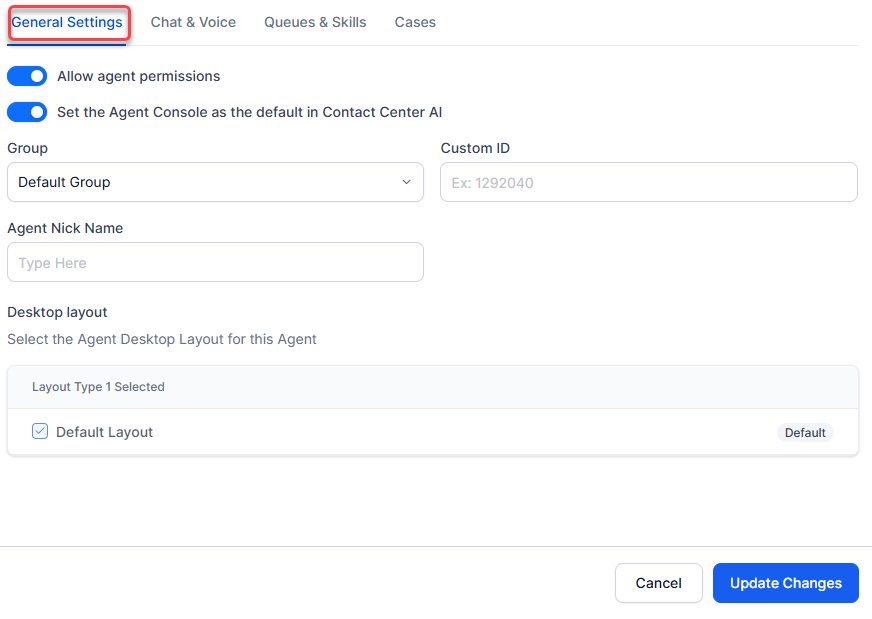
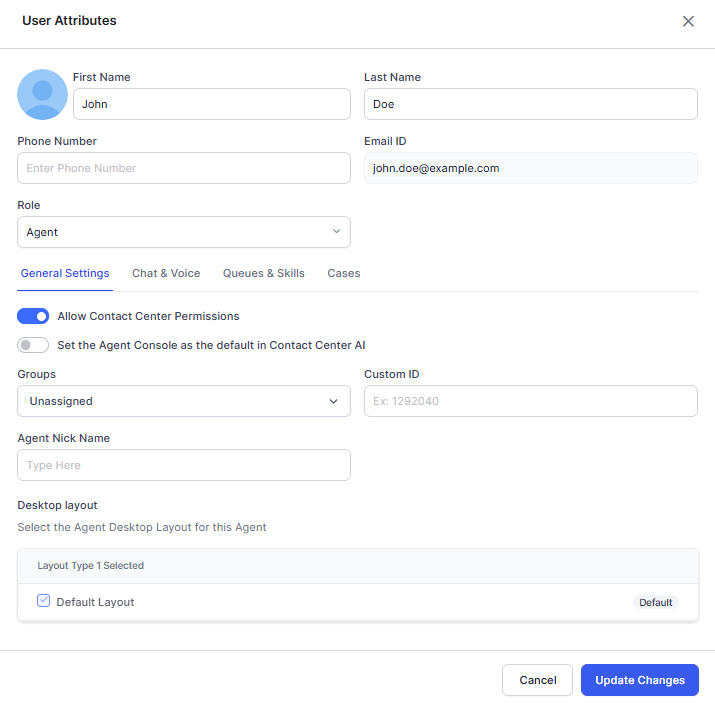
RN and doc updates

diff --git a/docs/xo/release-notes/11.x/platform-services.md b/docs/xo/release-notes/11.x/platform-services.md
@@ -2,6 +2,51 @@
 
 This document provides information on the feature updates and enhancements introduced in the **Platform Services** of AI for Service (XO) v11.x releases.
 
+## v11.22.0 February 28, 2026
+
+<u>Minor Release</u>  
+
+This update includes enhancements and bug fixes. The key enhancements included in this release are summarized below.
+
+
+<font size="4">LLM & Generative AI</font>
+
+**Change Log Enhancement**
+
+Change Logs will track the entire prompt lifecycle, including creation, updates, and deletions, providing a clear, auditable history of all prompt changes. 
+
+<font size="4">API</font>
+
+**Enhanced User Engagement Trend API (v2)**
+
+The User Engagement Trend API now delivers all user engagement metrics through a single endpoint. This includes counts for unique, new, and returning users, along with daily or hourly averages for each category. 
+
+<font size="4">App Settings</font>
+
+
+**Auto-Token Regeneration for OAuth2 Password Grant Type**
+
+The Platform now automatically regenerates Auth and Refresh tokens for the OAuth 2.0 Password Grant Type using stored credentials, ensuring uninterrupted service when tokens expire. 
+
+**End-to-End Payload Encryption Extended to Additional APIs**
+
+Payload encryption is now supported for the LLM and Generative AI Usage Logs API and the Conversation Details and Summary API. When the ‘Enforce Request and Response Payload Encryption’ setting is enabled in the JWT application, and the relevant scopes — Gen AI and LLM Usage Logs and Chat History — are selected, request and response payloads are automatically encrypted and decrypted using the symmetric key associated with those scopes. 
+
+
+<font size="4">Channels</font>
+
+**Typing Indicator Support for MS Teams**
+
+The platform now shows typing indicators in MS Teams, providing users with real-time visual feedback as an AI or human agent composes a response. This keeps users informed during the interaction and makes conversations feel more natural. [Learn more :octicons-arrow-right-24:](../../channels/add-microsoft-teams-channel.md#ms-teams-chat-features)
+
+**Proactive Welcome Message for MS Teams Validation**
+
+The MS Teams Channel Adapter now automatically sends a welcome message when the app is installed in the personal scope. This ensures compliance with  Microsoft Teams Marketplace validation and certification requirements. As a result, the app distribution process is smoother. [Learn more :octicons-arrow-right-24:](../../channels/add-microsoft-teams-channel.md#ms-teams-chat-features)
+
+
+
+<hr>
+
 ## v11.21.1 January 31, 2026
 
 <u> Patch Release </u>

diff --git a/docs/xo/how-tos/using-nlmeta.md b/docs/xo/how-tos/using-nlmeta.md
@@ -1,12 +1,16 @@
 
 # Using nlMeta
 
-Sometimes, one wants to control the flow of the assistant by taking an alternate path to improve the user’s experience.
+Sometimes, one wants to control the flow of the AI Agent by taking an alternate path to improve the user’s experience.
+
+DialogGPT-based apps support handling interruptions across linked apps using the nlMeta object. It allows you to pass information directly to the AI Agent, which prioritizes and executes the specified intent before processing any other input.
+
+
 
 Consider the following scenarios:
 
 
-1. The NLP engine might have identified an intent based on the user's utterance. However, based on additional information gathered from the backend systems, the webpage where the SDK is hosted, or any other external information, a different task might be more suitable.
+1. The DialogGPT-based app has identified an intent based on the user's utterance. However, based on additional information gathered from the backend systems, the webpage where the SDK is hosted, or any other external information, a different task might be more suitable.
 
 2. Consider a flight booking assistant that greets the user with the best ongoing deals as part of the Welcome message. Based on the user selection, the ‘book flight’ task can be programmatically invoked by prepopulating the travel details, like source city, destination city, travel, etc., from the deal information presented to the user.
 
@@ -22,24 +26,25 @@ The *nlMeta* is an object that can be used to pass information on to the AI Agen
 
 The following is a sample of how the *nlMeta* object needs to be populated:
 
-     'nlMeta': {
+``` json
+     "nlMeta" :{
+                   "intent": "Login",
+                   "childBotName":"NL Meta_Test_1",
+                   "entities":{
+                    "Password":456
 
-            'intent': '<intent_name>',  
-            'childBotName': '<child_bot_name>',
-            'isRefresh': <true/false>, 
-            'entities': {      
-			'<entity1_value>': value1,
-                        '<entity2_value>': value2,
-			},
-      	    'interruptionOptions': {
-               'hr': {
-                 'h': 1;
-                 'r': 1;
-                 'nn': true
-
+                   
+                   },
+                   "hr": {
+                 "h": 4,
+                 "r": 1,
+                "nn":false
+      
+                 
                 }
-              }
-      }
+               }
+           
+```
 
 
 ## Parameters

diff --git a/docs/xo/automation/intelligence/context-object.md b/docs/xo/automation/intelligence/context-object.md
@@ -9,9 +9,9 @@ The `Context` object can also be referenced in a script node as well as for dyna
 
 !!!note
     
-    The context object has a size limit of 1024 KB. The platform notifies the app designers when the size of the context object exceeds the limit. 
+    The context object size limit is 1024 KB. When it exceeds this limit, the platform sends an email notification to all users associated with the bot or workspace, except Contact Center agents. The platform identifies a Contact Center agent when the [Allow Contact Center Permissions](../../user-management/manage-users.md#general-settings) toggle is turned on.
     
-    We recommend you review these notifications and modify the app definition to keep the context object size under the limit. In the upcoming releases, the platform will discard conversations if the context size exceeds the limit.
+    
 
 The platform also creates and maintains Session Variables which can be referred to from [here](../../automation/use-cases/using-session-and-context-variables.md).
 The following table describes the `Context` object keys. These can be classified into Global and Dialog contexts based on when they are created and populated. Click [here](../../app-settings/advanced-settings/bot-sessions.md#implementation) for details.

diff --git a/docs/xo/release-notes/11.x/automation-ai.md b/docs/xo/release-notes/11.x/automation-ai.md
@@ -2,6 +2,28 @@
 
 This document provides information on the feature updates and enhancements introduced in **Automation AI** of AI for Service (XO) v11.x releases.
 
+## v11.22.0 February 28, 2026
+
+<u>Minor Release</u>  
+
+This update includes enhancements and bug fixes. The key enhancements included in this release are summarized below.
+
+<font size="4">DialogGPT</font> 
+
+**DialogGPT-Based Apps now support nlMeta**
+
+DialogGPT-based apps now support handling interruptions across linked apps using the `nlMeta` object. It allows you to pass information directly to the AI Agent, which prioritizes and executes the specified intent before processing any other input. [Learn more :octicons-arrow-right-24:](../../how-tos/using-nlmeta.md)
+
+<font size="4">Agent Flow</font> 
+
+**Context-Aware Custom Prompts in Agent Node**
+
+The context object is now supported in pre-processor and post-processor scripts within Agent Node custom prompts. Previously, these scripts only supported static content. With this update, developers can render templates dynamically using real-time context data, enabling greater flexibility across pre- and post-processor features. 
+
+
+<hr>
+
+
 ## v11.21.1 January 31, 2026
 
 <u> Patch Release </u>

diff --git a/docs/xo/channels/add-microsoft-teams-channel.md b/docs/xo/channels/add-microsoft-teams-channel.md
@@ -265,9 +265,14 @@ if(channelActionMetadata){
 <img src="../images/update-delete4.png" alt="Update or Delete Message" title="Update or Delete Message" style="border: 1px solid gray; zoom:70%;">
 
 
+### Typing Indicator 
+
+The platform supports typing indicators in Microsoft Teams, providing end users with real-time visual feedback when an AI agent or human agent is composing a response. This enhancement keeps users informed during interactions and creates a more natural and responsive conversation experience.
 
 
+### Proactive Welcome Message for MS Teams Validation
 
+The Microsoft Teams Channel Adapter now automatically sends a welcome message when the app is installed in the personal scope. This ensures compliance with  Microsoft Teams Marketplace validation and certification requirements. As a result, the app distribution process is smoother.
 
 ### Related Links
 

diff --git a/docs/xo/sdk/web-sdk-accessibility.md b/docs/xo/sdk/web-sdk-accessibility.md
@@ -51,9 +51,7 @@ For more details, refer to the official [WCAG 2.2 documentation](https://www.w3.
 
 ### Screen Reader Support
 
-The Kore.ai Web SDK is designed to be fully compatible with screen readers. It offers extensive customization options, while a base level of accessibility is provided, it's crucial to ensure that any customizations made also adhere to WCAG 2.2 Level AA standards. You can customize the SDK to best suit your specific accessibility requirements.
-
-For detailed information on how to customize the SDK, please refer to our [Customization Documentation](https://github.com/Koredotcom/web-kore-sdk/blob/v3/dev/docs/customizations).
+The Kore.ai Web SDK is designed to be fully compatible with screen readers.
 
 
 ### Theme Creation and Accessibility

diff --git a/docs/xo/user-management/manage-users.md b/docs/xo/user-management/manage-users.md
@@ -48,7 +48,7 @@ In the user attributes window, configure the following:
 
 This section helps configure general settings.
 
-In the General Settings section, You can enable the **Allow agent permissions** toggle to set the following:
+In the General Settings section, You can enable the **Allow Contact Center Permissions** toggle to set the following:
 
 * Set the Agent Console as the default in Contact Center AI - Enable this option to set **Agent Console** as the default landing page. This Dynamic Navigation Control feature determines the appropriate landing page based on user permissions rather than hardcoded role names. 
 * Group
